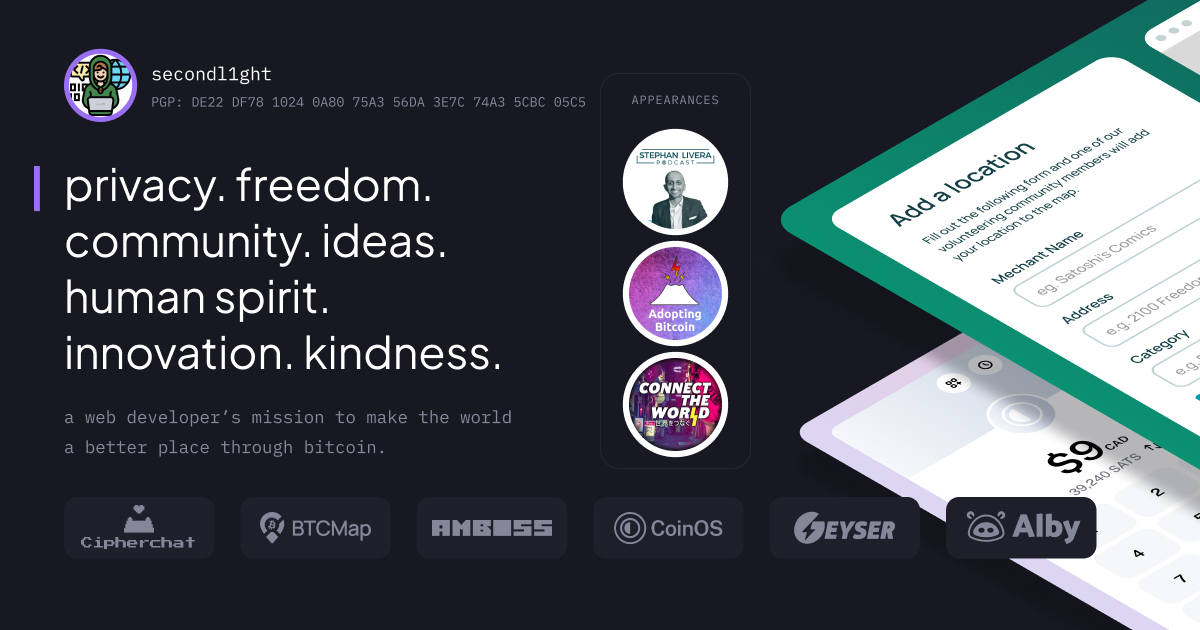
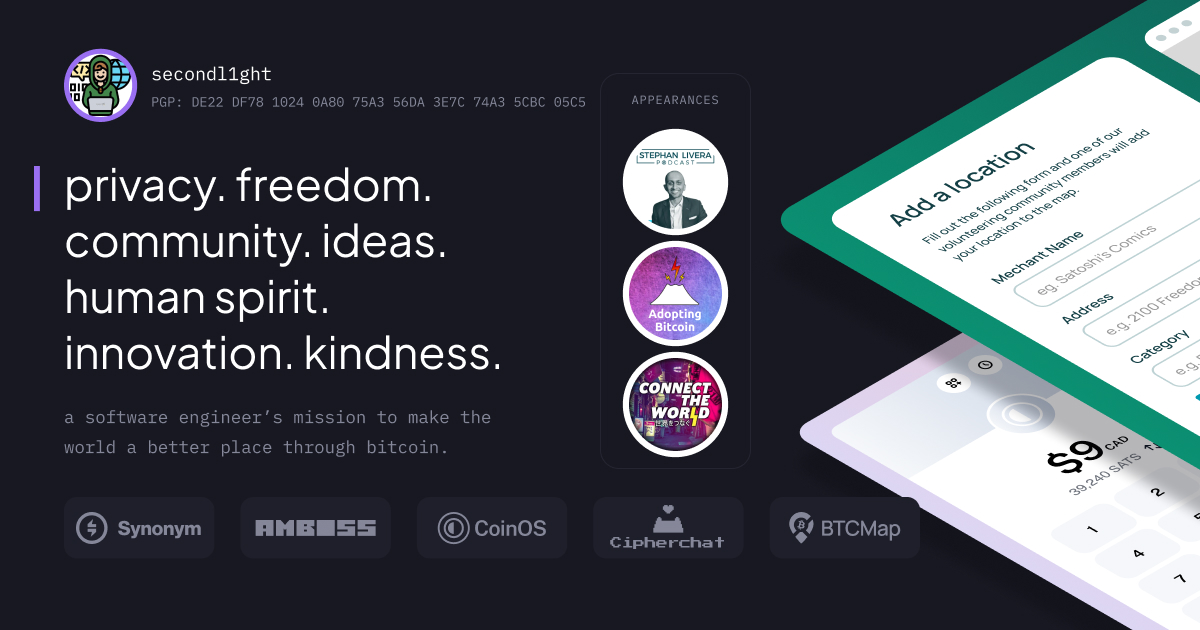
updates!!

diff --git a/src/components/Work.svelte b/src/components/Work.svelte
@@ -4,13 +4,32 @@
 
 	const mainProjects = [
 		{
+			gradients: 'from-[#FF6600] via-[#C93250] to-[#CA488C]',
+			image: '/images/the-atomic-economy.webp',
+			url: 'https://synonym.to/',
+			title: 'synonym',
+			description: "building the atomic economy, the world's first free-market society.",
+			role: 'react/next.js engineer',
+			duration: 'nov 2025 – present',
+			tech: [
+				{ tech: 'react', icon: '/icons/react.svg' },
+				{ tech: 'next.js', icon: '/icons/nextjs.svg' },
+				{ tech: 'typescript', icon: '/icons/ts.svg' },
+				{ tech: 'tailwindcss', icon: '/icons/tailwind.svg' },
+				{ tech: 'pubky core', icon: '/icons/pubky.svg' },
+				{ tech: 'dexie.js', icon: '/icons/dexie.png' },
+				{ tech: 'zustand', icon: '🐻' },
+				{ tech: 'node.js', icon: '/icons/node.svg' }
+			]
+		},
+		{
 			gradients: 'from-[#7928CA] to-[#FF0080]',
 			image: '/images/magma.webp',
 			url: 'https://amboss.tech/',
 			title: 'amboss',
 			description: 'lightning network tools and insights that give node operators an edge.',
 			role: 'senior front-end & quality-assurance engineer',
-			duration: 'feb 2023 – present',
+			duration: 'feb 2023 – oct 2025',
 			tech: [
 				{ tech: 'next.js', icon: '/icons/nextjs.svg' },
 				{ tech: 'react', icon: '/icons/react.svg' },

diff --git a/src/components/Support.svelte b/src/components/Support.svelte
@@ -21,31 +21,4 @@
 		>
 		support my work
 	</a>
-	<p class="ibm !leading-normal text-secondary md:text-lg lg:text-xl">
-		support other bitcoin developers at <a
-			href="https://bitcoindevlist.com/"
-			target="_blank"
-			rel="noreferrer"
-			class="text-white underline hover:text-hover">bitcoindevlist.com</a
-		>
-	</p>
-	<div class="space-y-5">
-		<h4 class="jakarta text-lg text-white md:text-xl lg:text-2xl">connect with lightning 🌩</h4>
-		<p class="ibm w-full !leading-normal text-secondary md:w-3/4 md:text-lg lg:text-xl">
-			you can find my lightning node information on <a
-				href="https://amboss.space/node/02b47ea13d4ecec4ff4ce608dce4a0833289509f6966ca6bd0c3af07b414b317e4"
-				target="_blank"
-				rel="noreferrer"
-				class="text-white underline hover:text-hover">amboss.space</a
-			>
-			or
-			<a
-				href="https://mempool.space/lightning/node/02b47ea13d4ecec4ff4ce608dce4a0833289509f6966ca6bd0c3af07b414b317e4"
-				target="_blank"
-				rel="noreferrer"
-				class="text-white underline hover:text-hover">mempool.space</a
-			>. if you would like to open up a channel with me to improve connectivity on the network and
-			provide some inbound liquidity that would be awesome!
-		</p>
-	</div>
 </div>

diff --git a/src/components/ProjectCard.svelte b/src/components/ProjectCard.svelte
@@ -40,7 +40,9 @@
 				class="mt-5 inline-block bg-shadow p-4 hover:shadow-lg md:mt-0 md:block"
 			>
 				<img
-					src="/images/{title.replace(' ', '')}{title === 'cipherchat' ? '.png' : '.jpg'}"
+					src="/images/{title.replace(' ', '')}{['cipherchat', 'synonym'].includes(title)
+						? '.png'
+						: '.jpg'}"
 					alt="avatar"
 					class="h-8 w-8 rounded md:h-10 md:w-10 lg:h-12 lg:w-12"
 				/>
@@ -55,7 +57,9 @@
 			<h4 class="jakarta mb-5 text-lg text-white md:text-xl lg:text-2xl">{durationTitle}</h4>
 			<p class="ibm mb-10 text-secondary md:text-lg lg:text-xl">{duration}</p>
 		</div>
-		<h4 class="jakarta mb-5 text-lg text-white md:text-xl lg:text-2xl">tech stack</h4>
+		<h4 class="jakarta mb-5 text-lg text-white md:text-xl lg:text-2xl">
+			tech stack {#if title === 'synonym'}<span class="ibm text-secondary">(pubky)</span>{/if}
+		</h4>
 		<div class="flex flex-wrap gap-5">
 			{#each tech as tech}
 				<Tech tech={tech.tech} icon={tech.icon} />

diff --git a/src/components/Tech.svelte b/src/components/Tech.svelte
@@ -11,10 +11,18 @@
 	>
 		{tech}
 	</p>
-	<img
-		src={icon}
-		alt={tech}
-		loading="lazy"
-		class="z-0 h-8 w-8 transition-all group-hover:blur-sm md:h-10 md:w-10 lg:h-12 lg:w-12"
-	/>
+	{#if tech === 'zustand'}
+		<p
+			class="z-0 flex h-8 w-8 items-center justify-center transition-all group-hover:blur-sm md:h-10 md:w-10 lg:h-12 lg:w-12"
+		>
+			<span class="text-[24px] md:text-[32px] lg:text-[40px]">{icon}</span>
+		</p>
+	{:else}
+		<img
+			src={icon}
+			alt={tech}
+			loading="lazy"
+			class="z-0 h-8 w-8 transition-all group-hover:blur-sm md:h-10 md:w-10 lg:h-12 lg:w-12"
+		/>
+	{/if}
 </div>

diff --git a/src/components/Hero.svelte b/src/components/Hero.svelte
@@ -3,8 +3,16 @@
 </script>
 
 <div class="mx-auto mt-10 w-3/4 space-y-10 md:mt-20 lg:w-2/3 xl:w-7/12 2xl:w-1/2">
+	<img
+		src="/images/avatar.png"
+		class="h-32 w-32 rounded-full bg-[#9A6FF1]"
+		alt="avatar"
+		fetchpriority="high"
+		loading="eager"
+		decoding="sync"
+	/>
 	<h4
-		class="ibm mb-4 text-xl text-secondary underline decoration-[#9A6FF1] decoration-dashed decoration-4 underline-offset-4 md:text-2xl lg:text-3xl"
+		class="ibm !my-4 text-xl text-secondary underline decoration-[#9A6FF1] decoration-dashed decoration-4 underline-offset-4 md:text-2xl lg:text-3xl"
 	>
 		secondl1ght
 	</h4>
